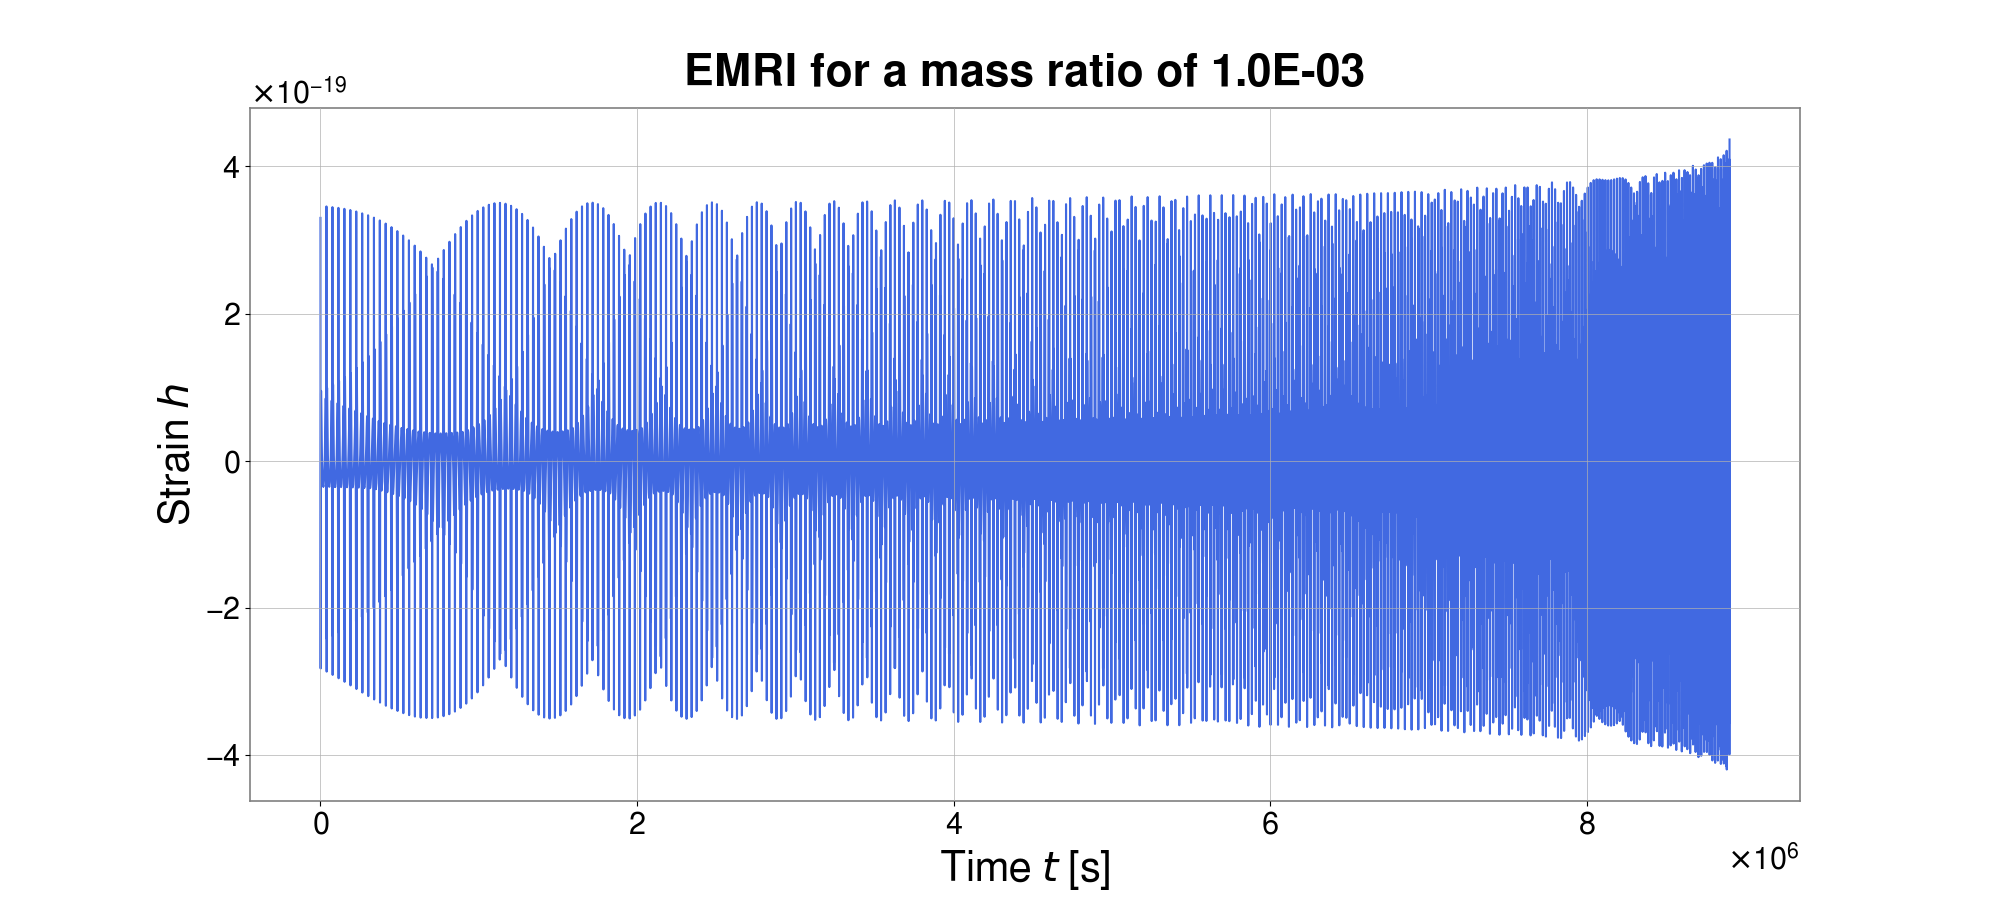
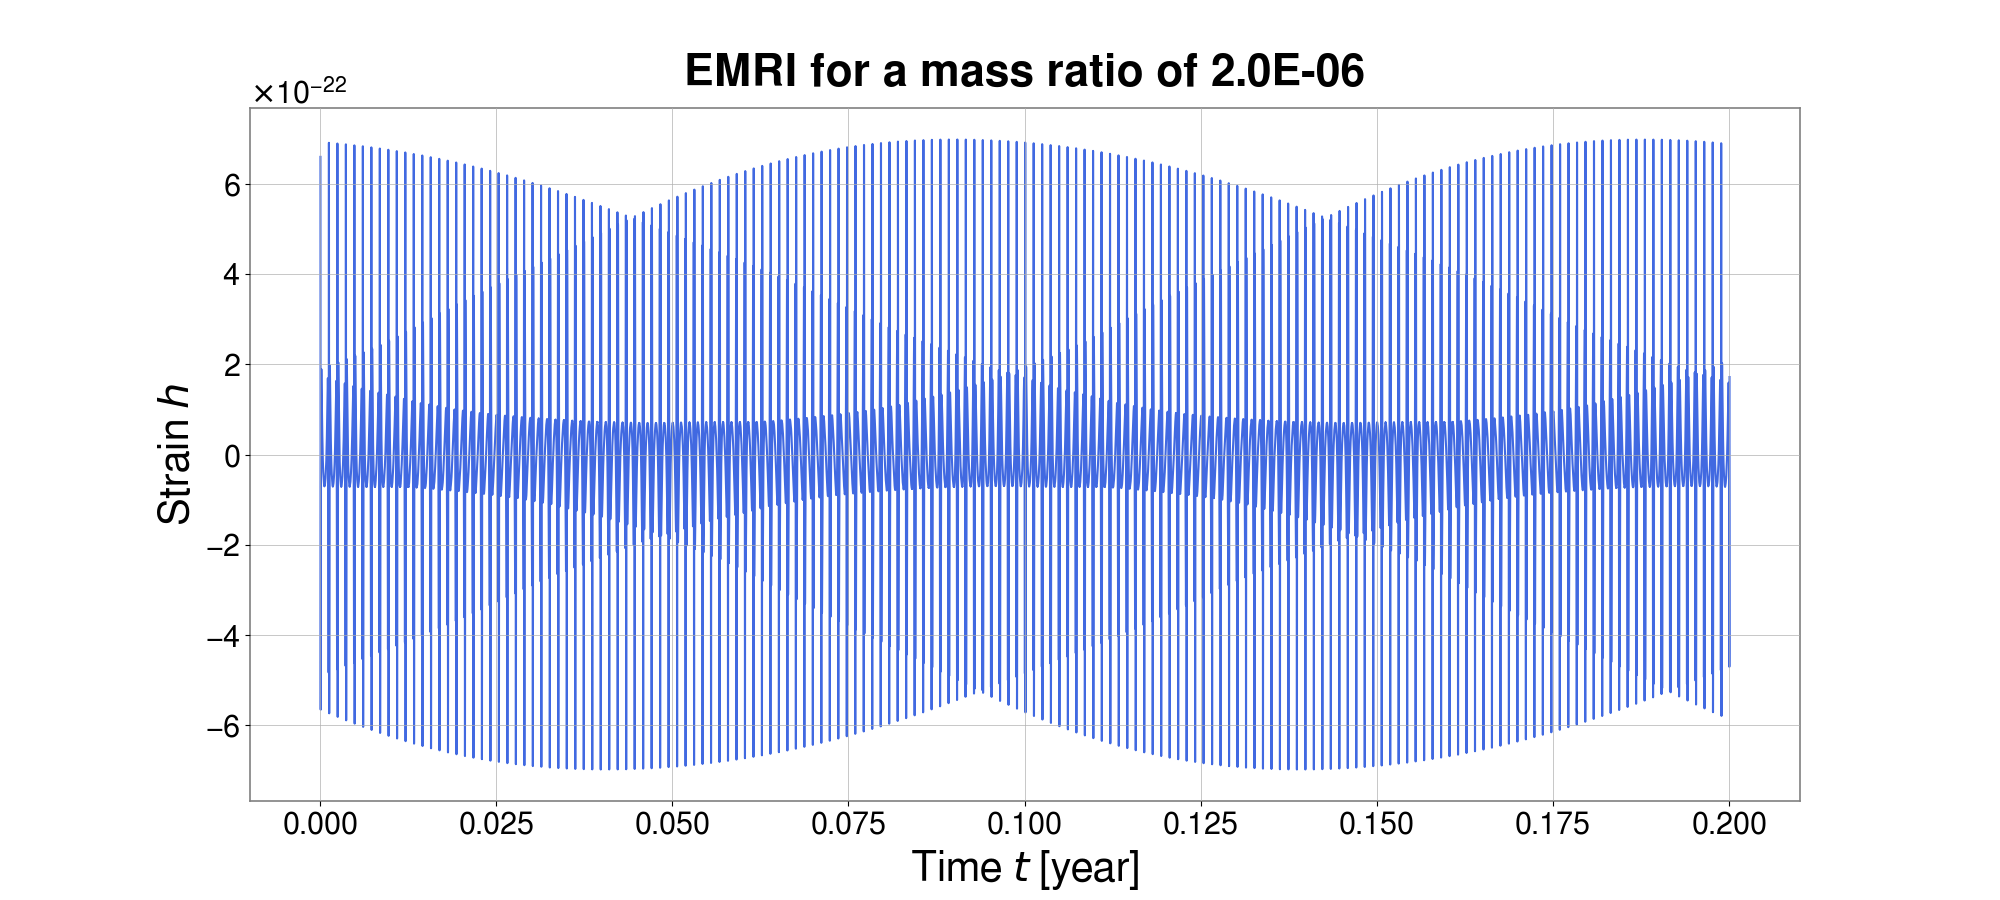
cool plots

diff --git a/test.py b/test.py
@@ -91,19 +91,21 @@ alpha = 1
 
 # parameters
 M = 1e7
-mu = 1e4
+mu = 2e1
 p0 = 11.0
 e0 = 0.7
 theta = np.pi/3  # polar viewing angle
 phi = np.pi/4  # azimuthal viewing angle
+time = 0.2
 
 theta, phi = 0, 0
 
-dt = 30.0
+dt = 20.0
 # dist = 1
 
-wave = few(M, mu, p0, e0, theta, phi, dist = 1, dt=dt, T = 0.5)  #  assumes dt = 10.0 for max T = 1.0 year
+wave = few(M, mu, p0, e0, theta, phi, dist = 1, dt=dt, T = time)  #  assumes dt = 10.0 for max T = 1.0 year
 
+year = 365 * 24 * 3600
 
 print(wave)
 print(wave.shape)
@@ -119,9 +121,9 @@ fig, ax = plt.subplots(figsize = (20, 9))
 # ax.plot(t[-1000:], wave.real[-1000:], color = "royalblue")
 # ax.plot(t[-1000:], wave.imag[-1000:], color = "crimson")
 
-ax.plot(t, wave.real, color = "royalblue")
+ax.plot(t / year, wave.real, color = "royalblue")
 
-ax.set_xlabel("Time $t$ [s]")
+ax.set_xlabel("Time $t$ [year]")
 ax.set_ylabel("Strain $h$")
 ax.set_title("EMRI for a mass ratio of {:.1E}".format(mu / M), y = 1.02)
 
